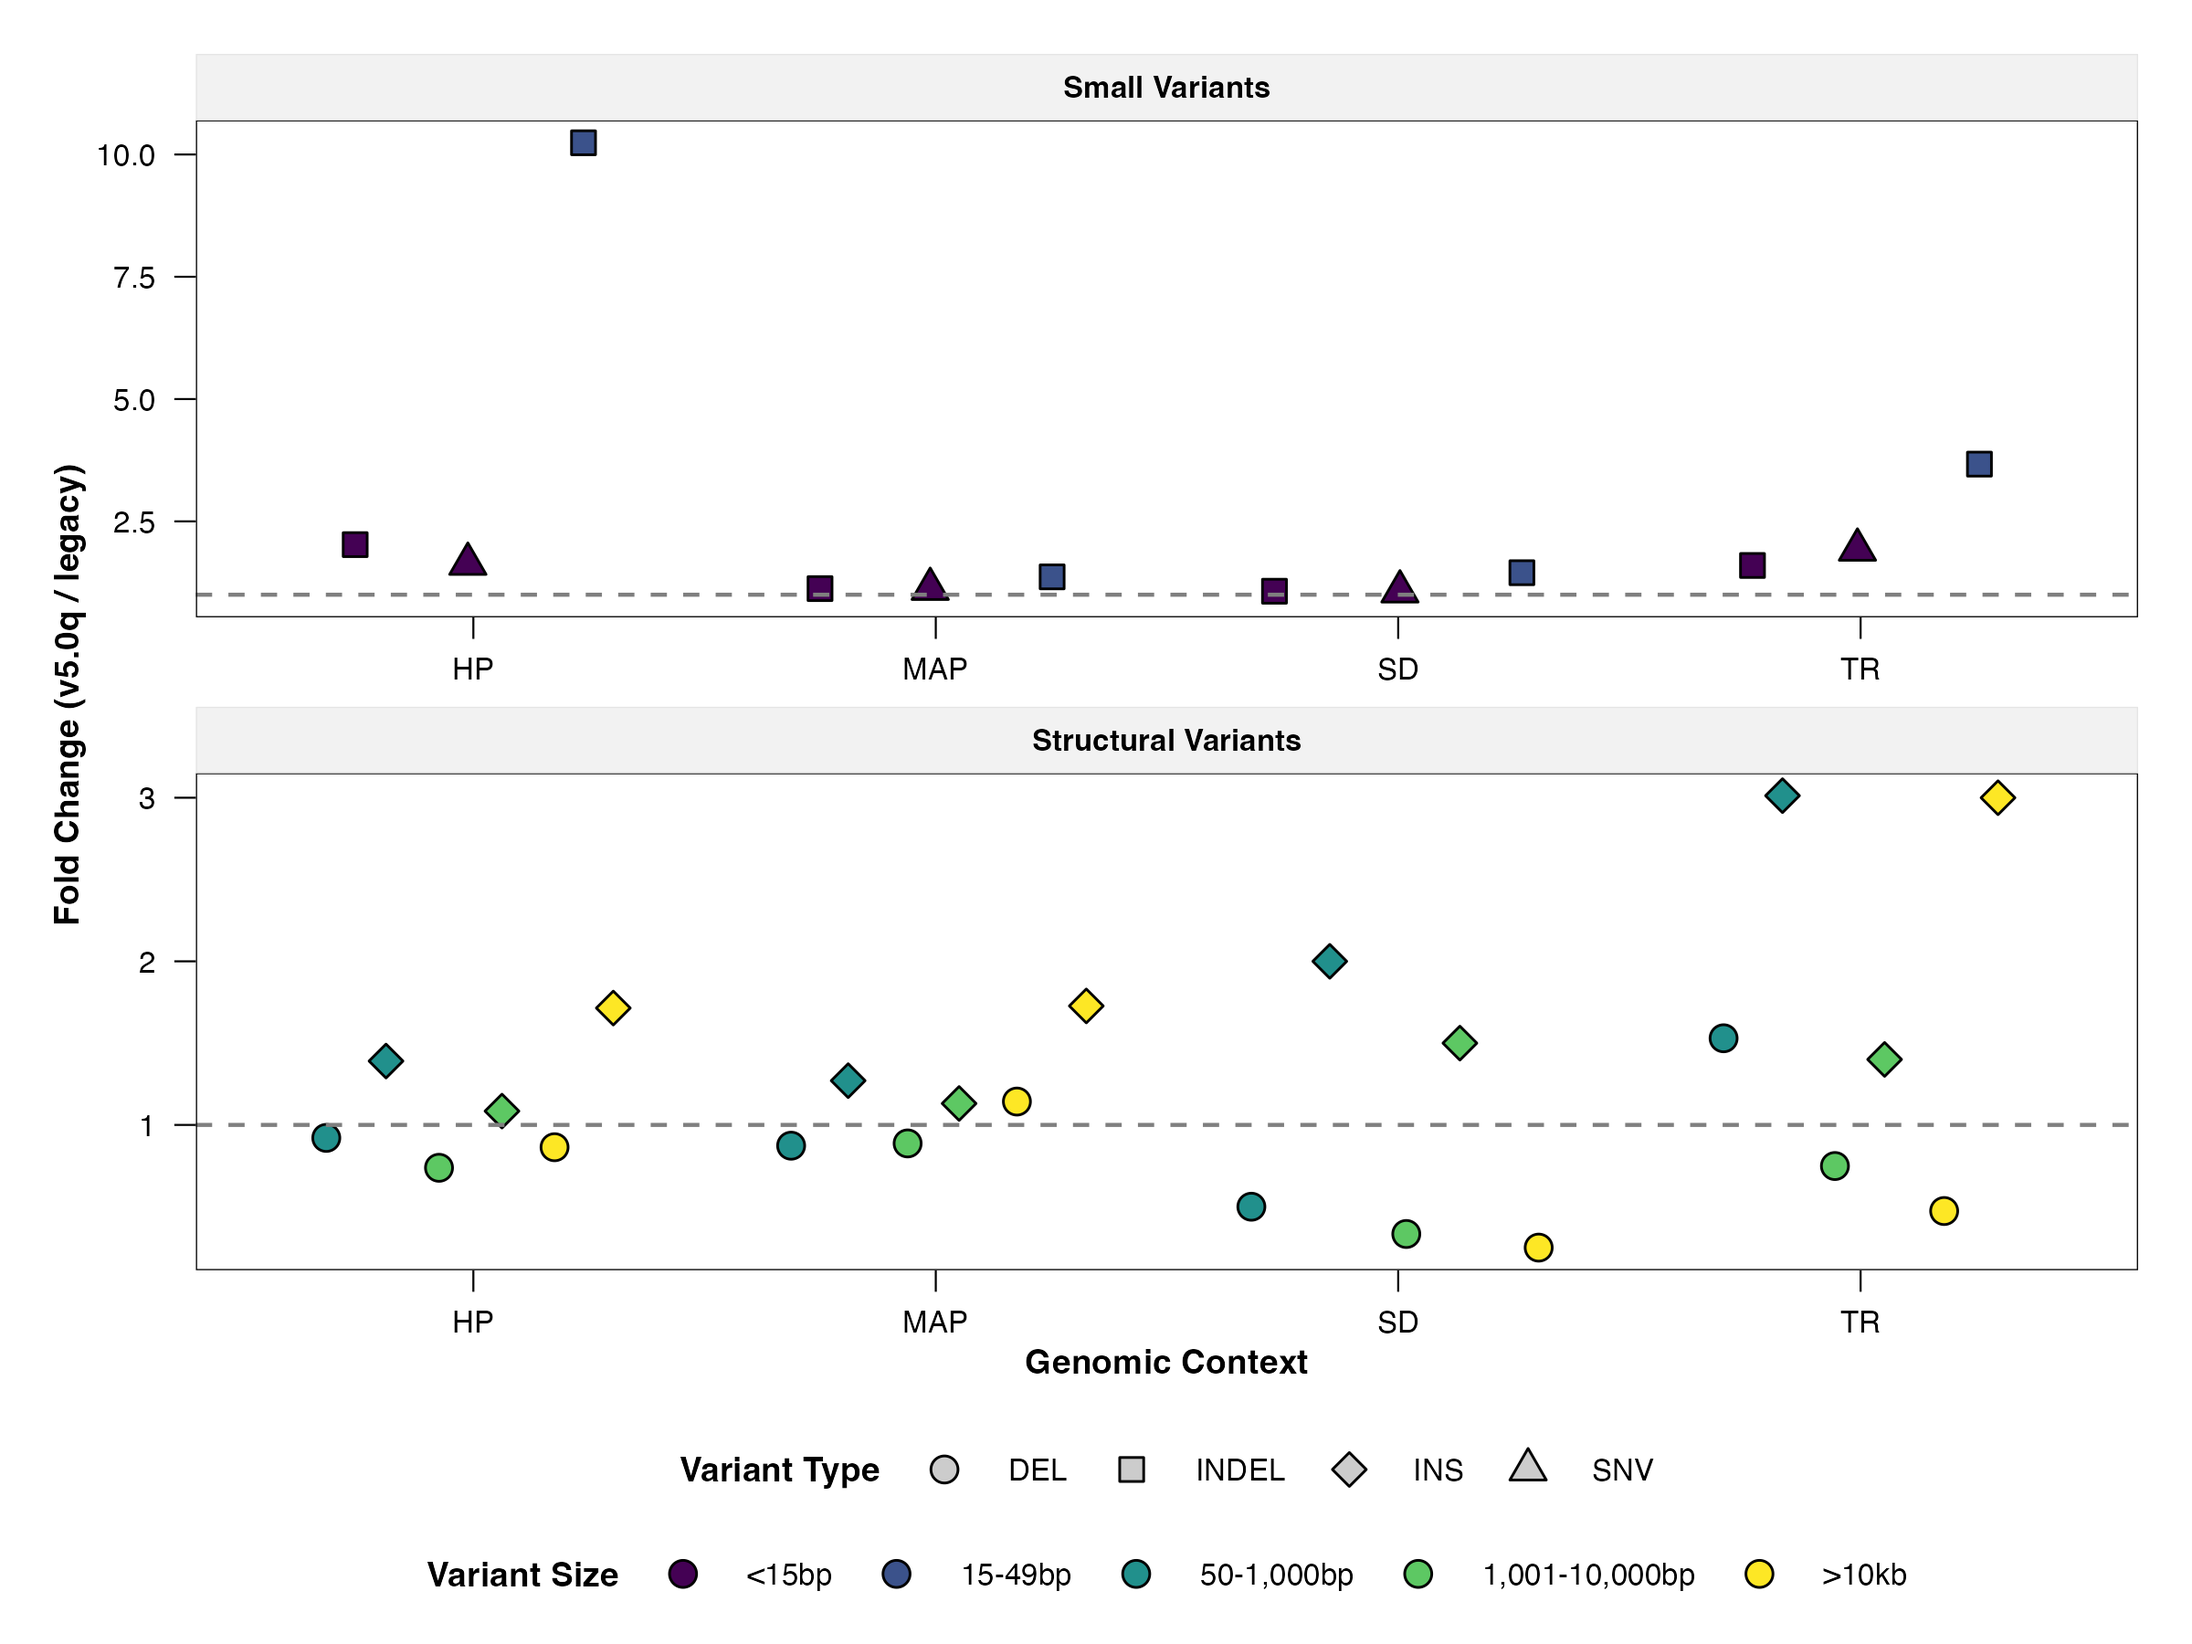
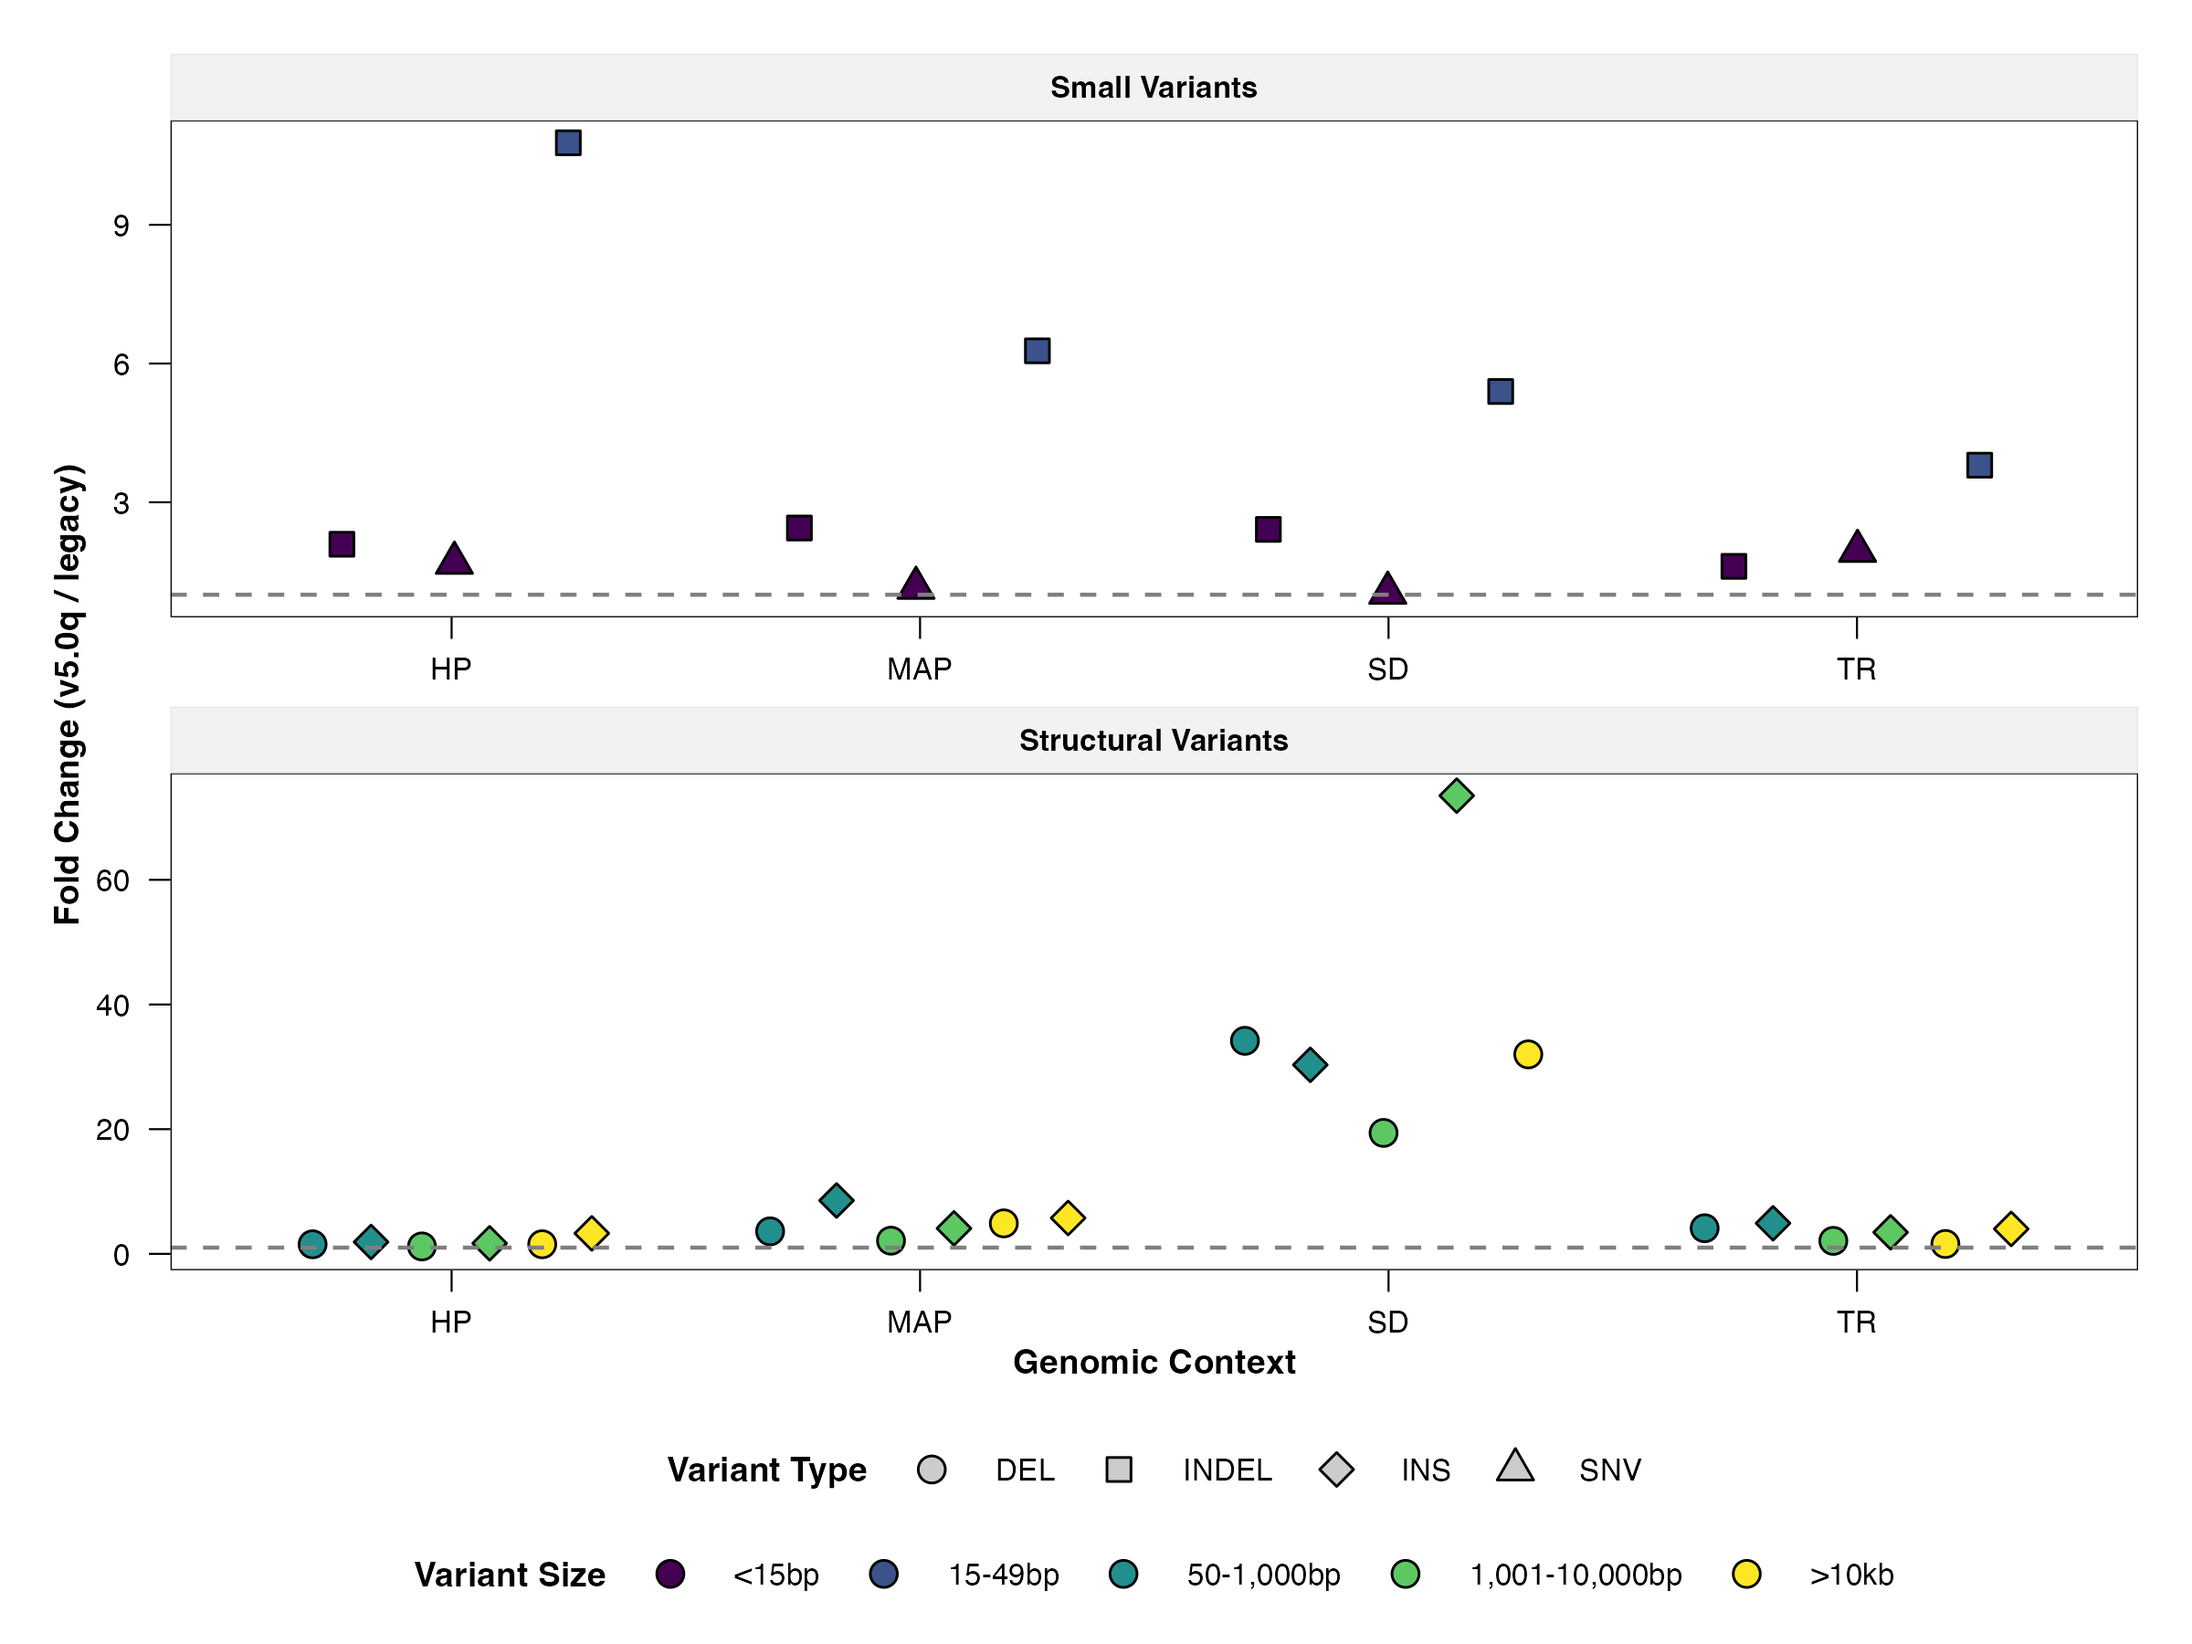
feat: combine coverage change and variant fold change into Figure 4
- Add variant fold change by genomic context to benchmarkset_characterization.qmd
- Combine with coverage change plot using patchwork (Figure 4)
- Add is_pass filter to benchmark_difficult.qmd for consistent cross-version
  comparison (v0.6 SV benchmark has non-PASS variants in benchmark regions)
- Update TODO.md with completed items

diff --git a/TODO.md b/TODO.md
@@ -4,12 +4,12 @@
 
 ### Figures
 
-- [ ] **Update stats table** (Table 1) — consolidate summary stats
-- [ ] **Update variant size distribution figure** (Figure 2) — verify v0.6 bars look correct relative to v5
-- [ ] **Simplify variant context figure** (Figure 3) — emphasize points made in text
+- [x] **Update stats table** (Table 1) — consolidated flextable
+- [x] **Update variant size distribution figure** (Figure 2) — overlaid histograms, GRCh37 for SV
+- [x] **Simplify variant context figure** (Figure 3) — fold change bars with exploded context_ids
 - [ ] **Combine v5 coverage change with variant count comparison** (Figure 4) — merge into single figure
-- [ ] **Better version of pangene graphs**
-- [ ] **Better presentation of external evaluation strata** (Figure 5 / S3)
+- [ ] **Better version of pangene graphs** (stretch goal)
+- [x] **Better presentation of external evaluation strata** (Figure 5 / S3) — readable labels, UCLA ensemble only
 - [ ] **Clean-up chr8 inversion figure** (Figure S1) — use PAV callset inversion coordinates for specifics
 - [ ] **Create/locate Figure 1** — DeFrABB workflow diagram
 
@@ -39,6 +39,12 @@
 - [x] Fixed CI (ruff lint/format, air R formatting)
 - [x] Regenerated analysis notebooks and figures after variant type fix
 - [x] Added `R/bed_helpers.R` (extracted from benchmark_unique_regions.qmd)
+- [x] Consolidated stats table (Table 1) with flextable
+- [x] Updated variant size distribution figure (overlaid histograms)
+- [x] Simplified variant context figure to fold change bars
+- [x] Updated external evaluation figure (readable strata labels, UCLA ensemble only)
+- [x] Fixed context_ids exact-match bug in fold change analysis (explode comma-separated field)
+- [x] Removed obsolete `benchmark_difficult_var.qmd`
 
 ### 2026-02-17
 
